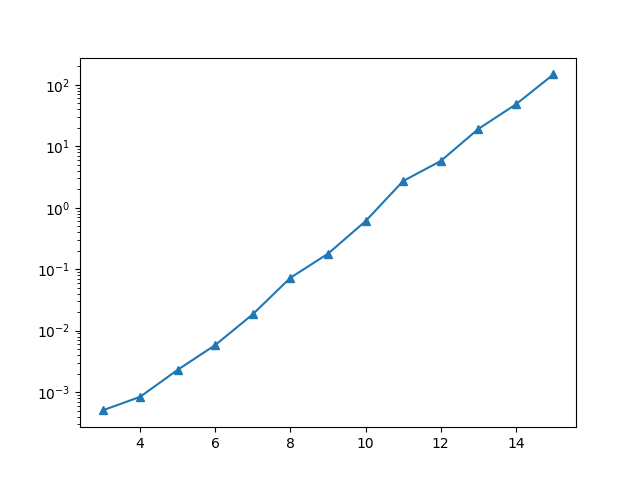
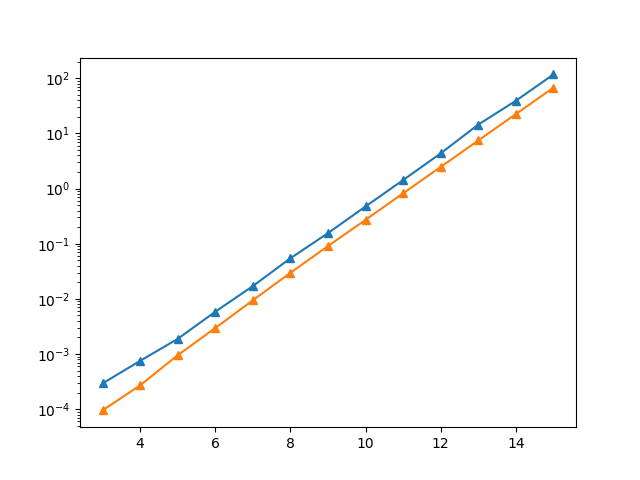
update : add titles and discription

diff --git a/multiply_py/compare_mul.py b/multiply_py/compare_mul.py
@@ -14,6 +14,9 @@ def main():
         print(fname)
         plt.plot(df, marker='^', label=fname)
     plt.legend()
+    plt.title("mul compare")
+    plt.xlabel("n : 2 ** x")
+    plt.ylabel("sec")
     plt.savefig("compare.png")
 
 
